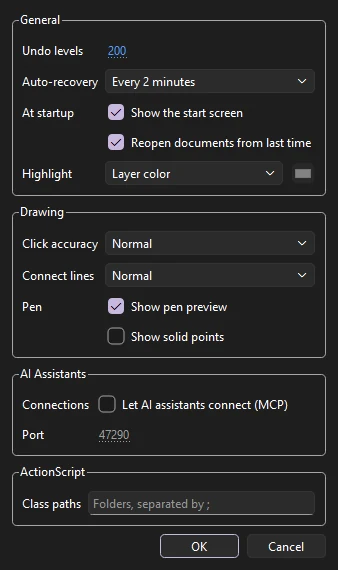
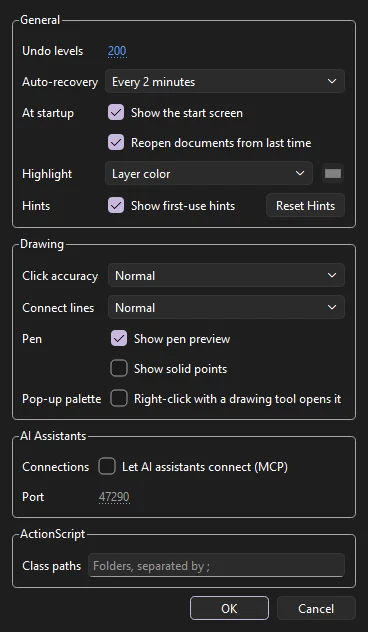
Docs: pop-up palette, color wheel, Simple workspace, hints, templates

diff --git a/docs/color.html b/docs/color.html
@@ -17,7 +17,7 @@
 <meta property="og:image:alt" content="The Phoenix window with three flower characters on the stage, the timeline below and the Properties panel on the right">
 <meta name="twitter:card" content="summary_large_image">
 <meta name="twitter:image" content="https://phoenixanimate.com/assets/shots/hero.webp">
-<meta name="keywords" content="color panel fill stroke solid linear radial gradient stops add move remove flow overflow extend reflect repeat linear rgb bitmap fill tiled clipped gradient transform tool handles focal point skew rotate lock fill swatches default palette web 216 sort import export act gpl alpha transparency hex hsb rgb channels black and white swap colors no color stroke style dashed dotted ragged stipple hatched hairline cap join miter limit scale hinting width profile taper swell pinch eyedropper ink bottle paint bucket gap size tagged swatch find replace color">
+<meta name="keywords" content="color panel fill stroke solid linear radial gradient stops add move remove flow overflow extend reflect repeat linear rgb bitmap fill tiled clipped gradient transform tool handles focal point skew rotate lock fill swatches default palette web 216 sort import export act gpl alpha transparency hex hsb rgb channels black and white swap colors no color stroke style dashed dotted ragged stipple hatched hairline cap join miter limit scale hinting width profile taper swell pinch eyedropper ink bottle paint bucket gap size tagged swatch find replace color color wheel hsv triangle hue recent colors color history pop-up palette popup favorite tools">
 <link rel="icon" href="assets/img/logo.png">
 <link rel="stylesheet" href="assets/site.css">
 <script>try { const t = localStorage.getItem("phoenix-docs-theme"); if (t) document.documentElement.dataset.theme = t; } catch (e) {}</script>
@@ -47,6 +47,8 @@
 
 <p>Picking a color with the toolbox swatches or the Swatches panel also recolors the selected shapes: a fill color fills them, a stroke color recolors their strokes.</p>
 
+<p>For the quickest pick of all, press <kbd>`</kbd> (the key left of <kbd>1</kbd>) over the stage to open the <a href="#the-pop-up-palette">pop-up palette</a> at your pen or mouse.</p>
+
 <p>To change one color everywhere it is used in the document, in fills, strokes, gradients and text, use <a href="workspace.html#find-and-replace">Find and Replace</a> with <strong>Color</strong>.</p>
 
 <p>To take a color from existing artwork, use the <a href="#the-eyedropper">Eyedropper</a>.</p>
@@ -67,7 +69,7 @@
   <dt>Bitmap Fill</dt><dd>An image from the library, tiled across the shape.</dd>
 </dl>
 
-<p>What you set in the panel is the fill for the next thing you draw with the shape tools, the Pen, the brushes and the Paint Bucket. To apply it to artwork that is already drawn, select it and click <strong>Apply to Selection</strong>. <strong>Apply to Strokes</strong> draws the selected shapes' strokes with it instead: a gradient or bitmap along a line, fitted to the lines it strokes. The panel has no stroke mode of its own; the stroke color comes from the toolbox and the Tool tab.</p>
+<p>What you set in the panel is the fill for the next thing you draw with the shape tools, the Pen, the brushes and the Paint Bucket. To apply it to artwork that is already drawn, select it and click <strong>Apply to Selection</strong>. <strong>Apply to Strokes</strong> draws the selected shapes' strokes with it instead: a gradient or bitmap along a line, fitted to the lines it strokes. The panel's fill types are for the fill only; the stroke is always a solid color, which you can set with the <a href="#color-wheel-and-recent-colors">color wheel</a> under them, the toolbox or the Tool tab.</p>
 
 <h3>Solid colors</h3>
 
@@ -112,6 +114,42 @@
 <p>Choose <strong>Bitmap Fill</strong>, then pick an image from the list of library bitmaps, or click <strong>Import...</strong> to bring one in. New shapes are filled with the image, tiled: it is placed at its own size from the top-left corner of the shape and repeats across it. Use the Gradient Transform tool to scale, turn, skew or move it.</p>
 
 <p>Breaking apart a bitmap on the stage (<span class="menu-path">Modify &rsaquo; Break Apart</span>, <kbd>Ctrl</kbd>+<kbd>B</kbd>) also gives a bitmap fill: a shape of the image's size, filled with the image once rather than tiled, which you can then cut, erase and reshape like any other shape.</p>
+
+<h3 id="color-wheel-and-recent-colors">The color wheel and recent colors</h3>
+
+<p>Under the fill settings is a color wheel, for picking a color by eye rather than by numbers.</p>
+
+<figure class="narrow">
+  <img src="assets/shots/color-panel-wheel.webp" alt="The Color panel with the Fill and Stroke buttons, the color wheel (a ring of hues around a triangle) and a row of recent colors" width="391" height="450">
+</figure>
+
+<ol>
+  <li>Click <strong>Fill</strong> or <strong>Stroke</strong> above the wheel to choose which color it sets. Each button shows that color now.</li>
+  <li>Drag around the <strong>ring</strong> to choose the hue: red, orange, yellow, green, blue, purple.</li>
+  <li>Drag inside the <strong>triangle</strong> to choose how strong and how light the color is. Its point is the pure hue, one corner is white and the other black.</li>
+</ol>
+
+<p>The color changes as you drag, so you can watch the swatches. When you let go, the selected shapes take it, as they do from a swatch. With a gradient chosen, the wheel sets the color of the picked gradient pointer instead.</p>
+
+<p><strong>Recent colors</strong>, under the wheel, are the colors you have drawn with lately, newest first. Click one to use it again, for the fill or the stroke as the buttons above say. The list keeps the last sixteen and is remembered the next time you start Phoenix. The same colors are in the pop-up palette.</p>
+
+<h2 id="the-pop-up-palette">The pop-up palette</h2>
+
+<p>The pop-up palette puts your favorite tools and colors right where you are drawing, so you do not have to reach for the panels.</p>
+
+<figure class="narrow">
+  <img src="assets/shots/popup-palette.webp" alt="The pop-up palette: a round panel with tool buttons around the edge, recent colors as dots inside them, a color wheel in the middle, and Fill, Stroke and Edit buttons in the corners" width="300" height="300">
+</figure>
+
+<ul>
+  <li><strong>To open it</strong>, press <kbd>`</kbd> (the key left of <kbd>1</kbd>) with the pointer over the stage, or choose <span class="menu-path">Window &rsaquo; Pop-up Palette</span>. It opens centered on the pointer, and works with a pen as well as a mouse.</li>
+  <li><strong>Tools</strong> sit around the edge. Click one to switch to it.</li>
+  <li><strong>Recent colors</strong> are the dots inside the tools. Click one to draw with it.</li>
+  <li><strong>The wheel</strong> in the middle works like the <a href="#color-wheel-and-recent-colors">Color panel's</a>. It sets the color the tool in use draws with: the stroke for the Pencil, Line, Pen and Ink Bottle, otherwise the fill. Click <strong>Fill</strong> or <strong>Stroke</strong> in the bottom corners, or press <kbd>X</kbd>, to switch.</li>
+  <li><strong>Edit</strong> lists every tool: check the ones you want around the edge, up to ten. <strong>Reset Favorites</strong> puts back the Brush, Pencil, Eraser, Paint Bucket, Eyedropper, Selection, Line, Rectangle and Oval.</li>
+</ul>
+
+<p>It closes when you pick a tool or a recent color, click outside it, or press <kbd>Esc</kbd> or <kbd>`</kbd> again. Right-clicking the stage normally opens the stage menu. If you would rather it opened the pop-up palette while you draw, turn on <strong>Right-click with a drawing tool opens it</strong> in <a href="preferences.html">Preferences</a>. To give the palette a different key, use <a href="shortcuts.html">Keyboard Shortcuts</a>.</p>
 
 <h2>The Gradient Transform tool</h2>
 

diff --git a/docs/workspace.html b/docs/workspace.html
@@ -17,7 +17,7 @@
 <meta property="og:image:alt" content="The Phoenix window with three flower characters on the stage, the timeline below and the Properties panel on the right">
 <meta name="twitter:card" content="summary_large_image">
 <meta name="twitter:image" content="https://phoenixanimate.com/assets/shots/hero.webp">
-<meta name="keywords" content="panels dock float toolbox outliner properties library color swatches align transform info frame picker motion editor actions output behaviors node graph menu bar status bar edit bar breadcrumb hot text window menu workspaces reset workspace theme dark light ui scale edit toolbar history undo levels repeat commands menu run command saved commands find and replace find next movie explorer context menus hide panels document tabs">
+<meta name="keywords" content="simple workspace beginner first-use hints tips reset hints panels dock float toolbox outliner properties library color swatches align transform info frame picker motion editor actions output behaviors node graph menu bar status bar edit bar breadcrumb hot text window menu workspaces reset workspace theme dark light ui scale edit toolbar history undo levels repeat commands menu run command saved commands find and replace find next movie explorer context menus hide panels document tabs">
 <link rel="icon" href="assets/img/logo.png">
 <link rel="stylesheet" href="assets/site.css">
 <script>try { const t = localStorage.getItem("phoenix-docs-theme"); if (t) document.documentElement.dataset.theme = t; } catch (e) {}</script>
@@ -162,9 +162,10 @@
 
 <h3>Workspaces</h3>
 
-<p>A workspace is a saved arrangement of the panels, the Tools panel's layout and the width of the layers list. Switch between them under <span class="menu-path">Window &rsaquo; Workspaces</span>. Phoenix comes with four:</p>
+<p>A workspace is a saved arrangement of the panels, the Tools panel's layout and the width of the layers list. Switch between them under <span class="menu-path">Window &rsaquo; Workspaces</span>. Phoenix comes with five:</p>
 
 <dl class="defs">
+  <dt>Simple</dt><dd>Just what a first drawing or animation needs: the stage, the timeline, the common tools, and Properties, Library and Color on the right. See <a href="#the-simple-workspace">The Simple workspace</a> below.</dd>
   <dt>Essentials</dt><dd>Phoenix's own layout: the tools on the left, the timeline below the stage, and Properties, Library, Color and Swatches as tabs on the right.</dd>
   <dt>Animator</dt><dd>A tall timeline with the Motion Editor and Layer Depth as tabs beside it, the Frame Picker among the panels, and the tools in two columns.</dd>
   <dt>Designer</dt><dd>Color, Swatches, Align, Transform and Info grouped under Properties, a short timeline, and the tools in two columns.</dd>
@@ -180,6 +181,22 @@
   <dt>Rename Workspace, Delete Workspace</dt><dd>Rename or delete one of your own workspaces. The built-in ones stay.</dd>
   <dt>Import Workspace..., Export Workspace...</dt><dd>Pass a workspace to another machine as a <code>.phxworkspace</code> file. An imported workspace never replaces one you have; it gets a number after its name instead.</dd>
 </dl>
+
+<h3 id="the-simple-workspace">The Simple workspace</h3>
+
+<p>New to animation, or just want a calm screen? The <strong>Simple</strong> workspace hides the panels you do not need yet and keeps the Tools panel short.</p>
+
+<figure>
+  <img src="assets/shots/workspace-simple.webp" alt="Phoenix in the Simple workspace: a short Tools panel on the left, the stage with a bouncing ball, the timeline below, Properties, Library and Color tabs on the right, and the Simple button lit on the edit bar" width="1400" height="860">
+  <figcaption>The Simple workspace, with a first-use hint at the bottom of the stage.</figcaption>
+</figure>
+
+<ul>
+  <li><strong>Tools</strong>: Selection, Free Transform, Brush, Pencil, Line, Rectangle and Oval, Text, Paint Bucket, Eyedropper, Eraser, Hand and Zoom. The other tools are only hidden: their keys still work, such as <kbd>P</kbd> for the Pen.</li>
+  <li><strong>Panels</strong>: the timeline, Properties, the Library and Color. The others are closed; open any of them from the Window menu when you want it.</li>
+</ul>
+
+<p>To switch, click <strong>Simple</strong> at the right end of the edit bar, above the stage. Click it again to go back to the full workspace you used last. The start screen has the same choice under <strong>Layout</strong>: the first time you start Phoenix it suggests Simple, and after you pick, it just shows which one you use.</p>
 
 <h3>Themes</h3>
 
@@ -275,6 +292,19 @@
 <h2>The outliner</h2>
 
 <p>Open the outliner with <span class="menu-path">Window &rsaquo; Outliner</span> (<kbd>Ctrl</kbd>+<kbd>Alt</kbd>+<kbd>O</kbd>). It shows the whole document as a tree: scenes, layers, frames, and the elements on them, down to individual paths and edges in a shape. Select something in the outliner and it is selected on the stage too. It is a quick way to find a small or hidden element in a crowded scene.</p>
+
+<h2 id="hints">First-use hints</h2>
+
+<p>The first time you do a few key things, a small <strong>Tip</strong> appears at the bottom left of the stage with the next step to try. Each shows only once:</p>
+
+<dl class="defs">
+  <dt>Your first drawing on frame 1</dt><dd>Press <kbd>F6</kbd> for a keyframe that starts as a copy of it, or <kbd>F7</kbd> for a blank one, to draw the next drawing.</dd>
+  <dt>Your first new keyframe</dt><dd>Turn on <span class="menu-path">View &rsaquo; Onion Skin</span> (<kbd>Alt</kbd>+<kbd>Shift</kbd>+<kbd>O</kbd>) to see the drawing before it, faded, and press <kbd>Enter</kbd> to play.</dd>
+  <dt>Your first symbol</dt><dd>Double-click it to draw inside it, and double-click an empty spot to come back out.</dd>
+  <dt>Your first tween</dt><dd>How to make it move: change the object on a later frame (a motion tween), or on the next keyframe (a classic or shape tween), then press <kbd>Enter</kbd>.</dd>
+</dl>
+
+<p>Click <strong>Got It</strong> to close a tip; it also goes away by itself after a little while. <strong>Don't Show Hints</strong> turns them all off. Turn them back on with <span class="menu-path">Help &rsaquo; Show Hints</span>, and choose <span class="menu-path">Help &rsaquo; Reset Hints</span> to see every one again. The same two settings are under <strong>Hints</strong> in <a href="preferences.html">Preferences</a>.</p>
 
 <h2>The status bar</h2>
 

diff --git a/docs/preferences.html b/docs/preferences.html
@@ -36,7 +36,7 @@
 <p>Choose <span class="menu-path">Edit &rsaquo; Preferences</span> (<kbd>Ctrl</kbd>+<kbd>U</kbd>). The dialog is one page in four groups: <strong>General</strong>, <strong>Drawing</strong>, <strong>AI Assistants</strong> and <strong>ActionScript</strong>. Changes apply when you click <strong>OK</strong>; <strong>Cancel</strong> leaves everything as it was. Preferences belong to Phoenix, not to a document, so they hold for every file you open.</p>
 
 <div class="split">
-  <figure style="margin:0"><img src="assets/shots/preferences-dialog.webp" alt="The Preferences dialog: General with Undo levels 200, Auto-recovery every 2 minutes, Show the start screen, Reopen documents from last time and Highlight set to Layer color; Drawing with Click accuracy and Connect lines set to Normal, Show pen preview checked and Show solid points unchecked; AI Assistants with Let AI assistants connect unchecked and the port; ActionScript with Class paths" width="338" height="570"></figure>
+  <figure style="margin:0"><img src="assets/shots/preferences-dialog.webp" alt="The Preferences dialog: General with Undo levels 200, Auto-recovery every 2 minutes, Show the start screen, Reopen documents from last time and Highlight set to Layer color, Show first-use hints checked with Reset Hints beside it; Drawing with Click accuracy and Connect lines set to Normal, Show pen preview checked, Show solid points unchecked and the pop-up palette's right-click unchecked; AI Assistants with Let AI assistants connect unchecked and the port; ActionScript with Class paths" width="368" height="632"></figure>
   <div>
     <h3>General</h3>
     <dl class="defs" style="grid-template-columns:1fr">
@@ -44,6 +44,7 @@
       <dt>Auto-recovery</dt><dd>How often a recovery copy of unsaved work is written: every 1, 2, 5 or 10 minutes, or Off. The same setting as <span class="menu-path">File &rsaquo; Auto-Save</span>; see <a href="documents.html#auto-save-and-recovery">Auto-save and recovery</a>.</dd>
       <dt>At startup</dt><dd><strong>Show the start screen</strong>. Turn it off and Phoenix reopens your most recent file instead. <strong>Reopen documents from last time</strong>, on unless you turn it off, opens the saved documents that were open when you quit, each in its tab; the start screen then shows only when there were none.</dd>
       <dt>Highlight</dt><dd><strong>Layer color</strong> outlines a selection in its layer's color; <strong>One color</strong> outlines every selection in the color you pick with the button beside it.</dd>
+      <dt>Hints</dt><dd><strong>Show first-use hints</strong>, on unless you turn it off, shows a short tip the first time you draw, add a keyframe, make a symbol or make a tween. <strong>Reset Hints</strong> shows every tip again. See <a href="workspace.html#hints">First-use hints</a>.</dd>
     </dl>
   </div>
 </div>
@@ -56,6 +57,7 @@
   <dt>Click accuracy</dt><dd>How near a click must be to a line, a point or a handle to pick it: <strong>Strict</strong> (2 screen pixels), <strong>Normal</strong> (4) or <strong>Tolerant</strong> (8). Strict helps when lines lie close together; Tolerant makes thin lines easier to hit. It applies when you click with the selection tools, the Pen and anchor point tools, the Width tool, the Paint Bucket, Ink Bottle and Eyedropper, and to how near the cursor must come for snapping.</dd>
   <dt>Connect lines</dt><dd>How near the two ends of a Pencil line drawn in Straighten mode must be to be joined into a closed shape: <strong>Must be close</strong> (8 screen pixels), <strong>Normal</strong> (15) or <strong>Can be distant</strong> (30). It works when the Pencil's own <strong>Connect lines</strong> option is on.</dd>
   <dt>Pen</dt><dd><strong>Show pen preview</strong>, on by default, draws the next segment from the last point to the cursor before you click, so you can see the curve you are about to make. <strong>Show solid points</strong> draws the anchors of the path being drawn filled in blue instead of white. See <a href="drawing-tools.html#pen">Pen</a>.</dd>
+  <dt>Pop-up palette</dt><dd><strong>Right-click with a drawing tool opens it</strong>, off by default: a right-click on the stage opens the <a href="color.html#the-pop-up-palette">pop-up palette</a> instead of the stage menu while a drawing tool (a brush, the Pencil, Pen, Line, a shape tool, the Paint Bucket, Ink Bottle or Eraser) is in use. The <kbd>`</kbd> key opens it either way.</dd>
 </dl>
 
 <p>The Pencil's other tidying settings are on its Tool tab rather than here: <strong>Pencil mode</strong>, <strong>Smoothing</strong>, which sets how much the line is smoothed, and <strong>Recognize shapes</strong>, which turns a rough rectangle or oval into a true one. See <a href="drawing-tools.html#pencil">Pencil</a>. To smooth or straighten lines already drawn, use <span class="menu-path">Modify &rsaquo; Shape</span>; see <a href="selecting.html#shape-commands">Shape commands</a>.</p>

diff --git a/docs/get-started.html b/docs/get-started.html
@@ -17,7 +17,7 @@
 <meta property="og:image:alt" content="The Phoenix window with three flower characters on the stage, the timeline below and the Properties panel on the right">
 <meta name="twitter:card" content="summary_large_image">
 <meta name="twitter:image" content="https://phoenixanimate.com/assets/shots/hero.webp">
-<meta name="keywords" content="download installer setup pkg zip portable update upgrade macos windows smartscreen start screen welcome">
+<meta name="keywords" content="starter templates bouncing ball walk cycle lip sync title card simple layout download installer setup pkg zip portable update upgrade macos windows smartscreen start screen welcome">
 <link rel="icon" href="assets/img/logo.png">
 <link rel="stylesheet" href="assets/site.css">
 <script>try { const t = localStorage.getItem("phoenix-docs-theme"); if (t) document.documentElement.dataset.theme = t; } catch (e) {}</script>
@@ -106,9 +106,22 @@
 <p>When you start Phoenix without a file, it opens the <strong>Welcome to Phoenix</strong> window. Pick a size under <strong>Create New</strong> to start a document, choose a file under <strong>Recent Files</strong>, or click <strong>Open...</strong> to browse. <strong>More Presets...</strong> opens the full <a href="documents.html#create-a-document">New Document</a> dialog.</p>
 
 <figure>
-  <img src="assets/shots/start-screen.webp" alt="The Welcome to Phoenix window, with document presets on the left and recent files on the right" width="860" height="520">
+  <img src="assets/shots/start-screen.webp" alt="The Welcome to Phoenix window: document presets and recent files at the top, four starter templates with pictures below them, and the Simple and Full layout buttons" width="860" height="660">
   <figcaption>The start screen. Turn off <strong>Show at startup</strong> to reopen your most recent file instead.</figcaption>
 </figure>
+
+<h3 id="starter-templates">Starter templates</h3>
+
+<p>Not sure where to begin? <strong>Starter Templates</strong> are finished little animations to play, pull apart and change. Double-click one to open a copy of it as a new, untitled document; the template itself never changes.</p>
+
+<dl class="defs">
+  <dt>Bouncing Ball</dt><dd>A ball bouncing in place, one second long. It speeds up as it falls, squashes flat on the floor, stretches as it leaves and slows at the top, and its shadow grows as it comes down. Click through the keyframes on the <em>Ball</em> layer to see each pose.</dd>
+  <dt>Walk Cycle</dt><dd>A character walking in place, keyed every 6 frames. Each part of an arm or leg is its own layer, parented to the part it hangs from, so turning a thigh carries the shin and shoe with it. See <a href="tutorial-layer-parenting.html">Layer parenting</a>.</dd>
+  <dt>Lip-Sync Head</dt><dd>A face whose mouth is a graphic symbol with nine mouth shapes, labeled A to H and X, one a frame. Import a voice recording, select the mouth and choose <span class="menu-path">Modify &rsaquo; Lip Sync...</span> to make it talk. See <a href="tutorial-lip-sync.html">Lip sync</a>.</dd>
+  <dt>Title Card</dt><dd>Three seconds to open a film: the title drops in letter by letter, a bar wipes in under it and a line fades up. Double-click the words to change them.</dd>
+</dl>
+
+<p>Under the templates, <strong>Layout</strong> switches between the <a href="workspace.html#the-simple-workspace">Simple</a> workspace, with just the panels and tools a beginner needs, and the full one. The first time you start Phoenix, a note there suggests Simple; you can switch at any time.</p>
 
 <p>It also comes back when you close your last document, unless <strong>Show at startup</strong> is off. You can bring it back at any time from <span class="menu-path">Help &rsaquo; Start Screen...</span></p>
 

diff --git a/docs/changelog.html b/docs/changelog.html
@@ -34,6 +34,16 @@
 
 <p class="lead">What changed in each release of Phoenix, newest first.</p>
 
+<h2 id="vunreleased">Unreleased</h2>
+
+<ul>
+  <li>Pop-up palette: press ` over the stage for your favorite tools, recent colors and a color wheel at the pointer (works with a pen; can open on right-click too)</li>
+  <li>Color panel: a color wheel for the fill or stroke, and a row of the colors you drew with lately, remembered between sessions</li>
+  <li>Simple workspace: just the stage, timeline, common tools, Properties, Library and Color, one click from the full layout on the edit bar or the start screen</li>
+  <li>First-use hints: a short tip on what to try next the first time you draw, add a keyframe, make a symbol or make a tween (Help &gt; Show Hints, Reset Hints)</li>
+  <li>Starter templates on the start screen: a bouncing ball, a rigged walk cycle, a lip-sync head and a title card, each opened as a new document</li>
+</ul>
+
 <h2 id="v0-20-0">0.20.0</h2>
 
 <ul>

diff --git a/docs/shortcuts.html b/docs/shortcuts.html
@@ -181,6 +181,7 @@
     <tr><td>Outliner</td><td><kbd>Ctrl</kbd>+<kbd>Alt</kbd>+<kbd>O</kbd></td></tr>
     <tr><td>Color</td><td><kbd>Ctrl</kbd>+<kbd>Shift</kbd>+<kbd>F9</kbd></td></tr>
     <tr><td>Swatches</td><td><kbd>Ctrl</kbd>+<kbd>F9</kbd></td></tr>
+    <tr><td><a href="color.html#the-pop-up-palette">Pop-up palette</a>, at the pointer</td><td><kbd>`</kbd></td></tr>
     <tr><td>Align, Transform, Info</td><td><kbd>Ctrl</kbd>+<kbd>K</kbd>, <kbd>Ctrl</kbd>+<kbd>T</kbd>, <kbd>Ctrl</kbd>+<kbd>I</kbd></td></tr>
     <tr><td>History</td><td><kbd>Ctrl</kbd>+<kbd>F10</kbd></td></tr>
     <tr><td>Output</td><td><kbd>F2</kbd></td></tr>

diff --git a/CHANGELOG.md b/CHANGELOG.md
@@ -2,6 +2,14 @@
 
 What changed in each release of Phoenix, newest first.
 
+## Unreleased
+
+- Pop-up palette: press ` over the stage for your favorite tools, recent colors and a color wheel at the pointer (works with a pen; can open on right-click too)
+- Color panel: a color wheel for the fill or stroke, and a row of the colors you drew with lately, remembered between sessions
+- Simple workspace: just the stage, timeline, common tools, Properties, Library and Color, one click from the full layout on the edit bar or the start screen
+- First-use hints: a short tip on what to try next the first time you draw, add a keyframe, make a symbol or make a tween (Help > Show Hints, Reset Hints)
+- Starter templates on the start screen: a bouncing ball, a rigged walk cycle, a lip-sync head and a title card, each opened as a new document
+
 ## 0.20.0
 
 - A boned shape whose last points are bound to no bone keeps the binding of its other points when posed or rebound
